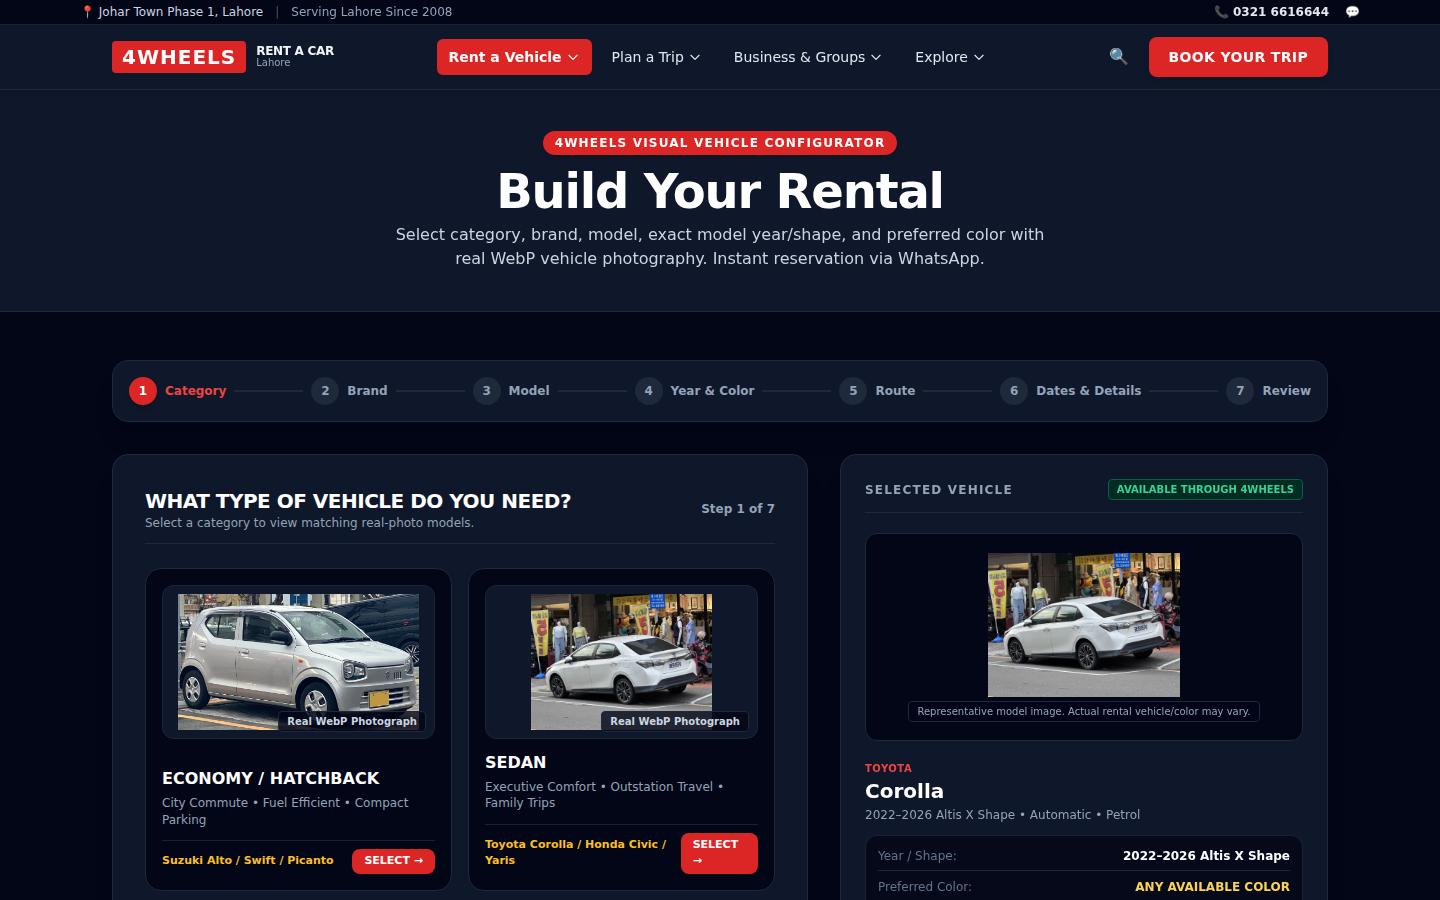
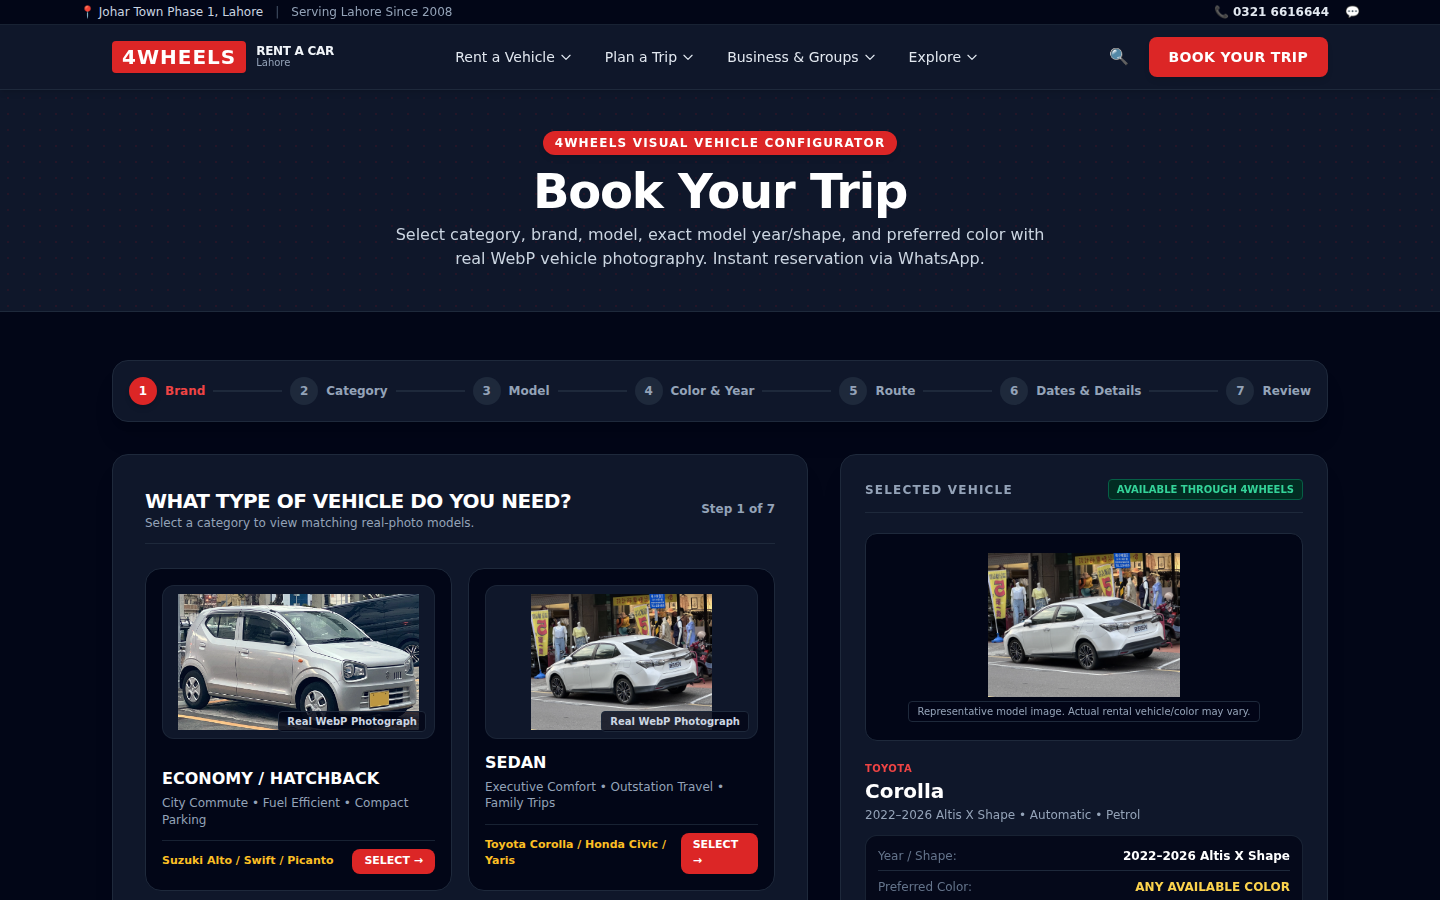
Redesign fleet page to brand-first layout and add all model pages

diff --git a/src/data/pakistanVehicles.ts b/src/data/pakistanVehicles.ts
@@ -1224,6 +1224,74 @@ export const PAKISTAN_VEHICLE_CATALOG: CatalogVehicle[] = [
     description: 'German luxury executive sedan equipped with matrix headlights, leather cabin, and silent motorway ride.',
     heroPhoto: '/vehicles/fleet/audi-a6/hero.webp',
     customerLabel: '2022 C7 Executive Shape'
+  },
+
+  // --- COMMERCIAL BUSES & COASTERS ---
+  {
+    id: 'yutong-master-bus',
+    slug: 'yutong-bus',
+    brand: 'Yutong',
+    brandSlug: 'yutong',
+    model: 'Master Grand Saloon Bus',
+    variant: '50-Seater Executive Coach',
+    modelYear: '2022-2026',
+    bodyType: 'Bus / Heavy Coach',
+    category: 'bus',
+    status: 'Available on Request',
+    seats: 50,
+    maxPassengers: 49,
+    transmission: 'Manual',
+    fuelType: 'Diesel',
+    engine: 'Cummins 8.9L Turbo Diesel',
+    fuelTankCapacity: '300 Litres',
+    batteryCapacity: null,
+    electricRange: null,
+    bootCapacity: 'Underfloor Luggage Compartments (50+ Bags)',
+    groundClearance: '250 mm',
+    colors: ['White / Red Stripe', 'Gold / Silver Metallic'],
+    suitableUse: ['Intercity Corporate Delegation', 'Wedding Transport', 'Tour Group Operator'],
+    manufacturerUrl: 'https://mastermotor.com.pk',
+    brochureUrl: null,
+    sourceUrl: 'https://mastermotor.com.pk',
+    verifiedDate: '2026-08-21',
+    isFleetConfirmed: false,
+    tagline: '50-seater luxury intercity coach for large corporate, tour, and wedding delegations.',
+    description: 'Heavy commercial luxury coach featuring reclining seats, central air conditioning, public address system, and large luggage bays.',
+    heroPhoto: '/vehicles/fleet/toyota-coaster/hero.webp',
+    customerLabel: '50-Seater Grand Coach'
+  },
+  {
+    id: 'daewoo-bh116-bus',
+    slug: 'daewoo-bus',
+    brand: 'Daewoo',
+    brandSlug: 'daewoo',
+    model: 'BH116 Express Bus',
+    variant: '45-Seater Executive Intercity Coach',
+    modelYear: '2021-2026',
+    bodyType: 'Bus / Heavy Coach',
+    category: 'bus',
+    status: 'Available on Request',
+    seats: 45,
+    maxPassengers: 44,
+    transmission: 'Manual',
+    fuelType: 'Diesel',
+    engine: '11.0L Turbo Diesel Engine',
+    fuelTankCapacity: '280 Litres',
+    batteryCapacity: null,
+    electricRange: null,
+    bootCapacity: 'Underfloor Luggage Compartments (45+ Bags)',
+    groundClearance: '240 mm',
+    colors: ['White / Blue Stripe', 'Silver'],
+    suitableUse: ['Intercity Group Tour', 'Factory / Corporate Movement', 'Large Wedding Group'],
+    manufacturerUrl: 'https://daewoo.com.pk',
+    brochureUrl: null,
+    sourceUrl: 'https://daewoo.com.pk',
+    verifiedDate: '2026-08-21',
+    isFleetConfirmed: false,
+    tagline: 'Standard 45-seater intercity express coach for reliable group mobility across Pakistan.',
+    description: 'Proven commercial intercity passenger bus engineered for long distance motorway travel with heavy luggage capacity.',
+    heroPhoto: '/vehicles/fleet/toyota-coaster/hero.webp',
+    customerLabel: '45-Seater Express Coach'
   }
 ];
 
